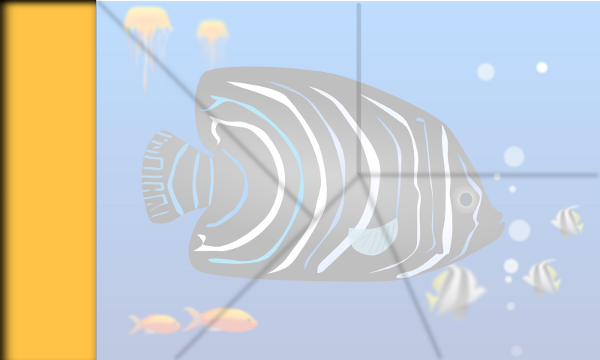
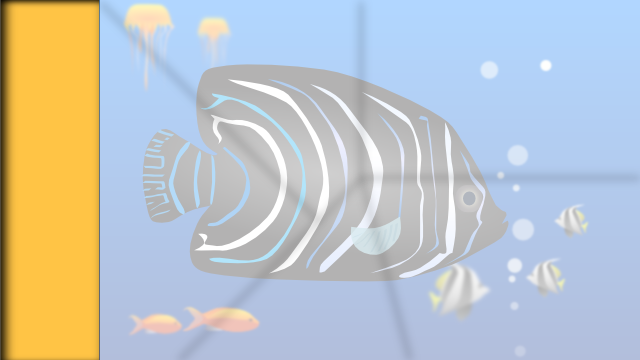
Changes: redrawn bbfish board

Changed region(s): [[0.0, 0.0, 0.99, 1.0], [0.75, 0.1528, 0.93, 0.2444], [0.84, 0.9472, 0.87, 1.0]]

diff --git a/qml/KidPuzzleSymbian/BoardBBFish.qml b/qml/KidPuzzleSymbian/BoardBBFish.qml
@@ -6,23 +6,23 @@ Board {
 
     Bit {
         source: "bbf_tail.png"
-        dockX: UI.leftMargin + 15; dockY:0; boardX: UI.leftMargin + 97; boardY: 1; dockW: 55; dockH: 65
+        dockX: UI.leftMargin + 30; dockY: 3; boardX: UI.leftMargin + 99; boardY: 0; dockW: 40; dockH: 65
     }
     Bit {
         source: "bbf_head.png"
-        dockX: UI.leftMargin + 2; dockY: 75; boardX: UI.leftMargin + 361; boardY: 176; dockW: 90; dockH: 65
+        dockX: UI.leftMargin + 2; dockY: 75; boardX: UI.leftMargin + 361; boardY: UI.screenHeight - 196; dockW: 90; dockH: 63
     }
     Bit {
         source: "bbf_fin.png"
-        dockX: UI.leftMargin + 2; dockY: 150; boardX: UI.leftMargin + 97; boardY: 0; dockW: 90; dockH: 65
+        dockX: UI.leftMargin + 7; dockY: 150; boardX: UI.leftMargin + 99; boardY: 0; dockW: 77; dockH: 65
     }
     Bit {
         source: "bbf_belly.png"
-        dockX: UI.leftMargin + 2; dockY: 225; boardX: UI.leftMargin + 173; boardY: 172; dockW: 90; dockH: 65
+        dockX: UI.leftMargin + 2; dockY: 225; boardX: UI.leftMargin + 178; boardY: UI.screenHeight - 185; dockW: 82; dockH: 65
     }
     Bit {
         source: "bbf_forehead.png"
-        dockX: UI.leftMargin + 2; dockY: 295; boardX: UI.leftMargin + 361; boardY: 0; dockW: 90; dockH: 65
+        dockX: UI.leftMargin + 3; dockY: 295; boardX: UI.leftMargin + 361; boardY: 0; dockW: 90; dockH: 57
     }
 }
 
